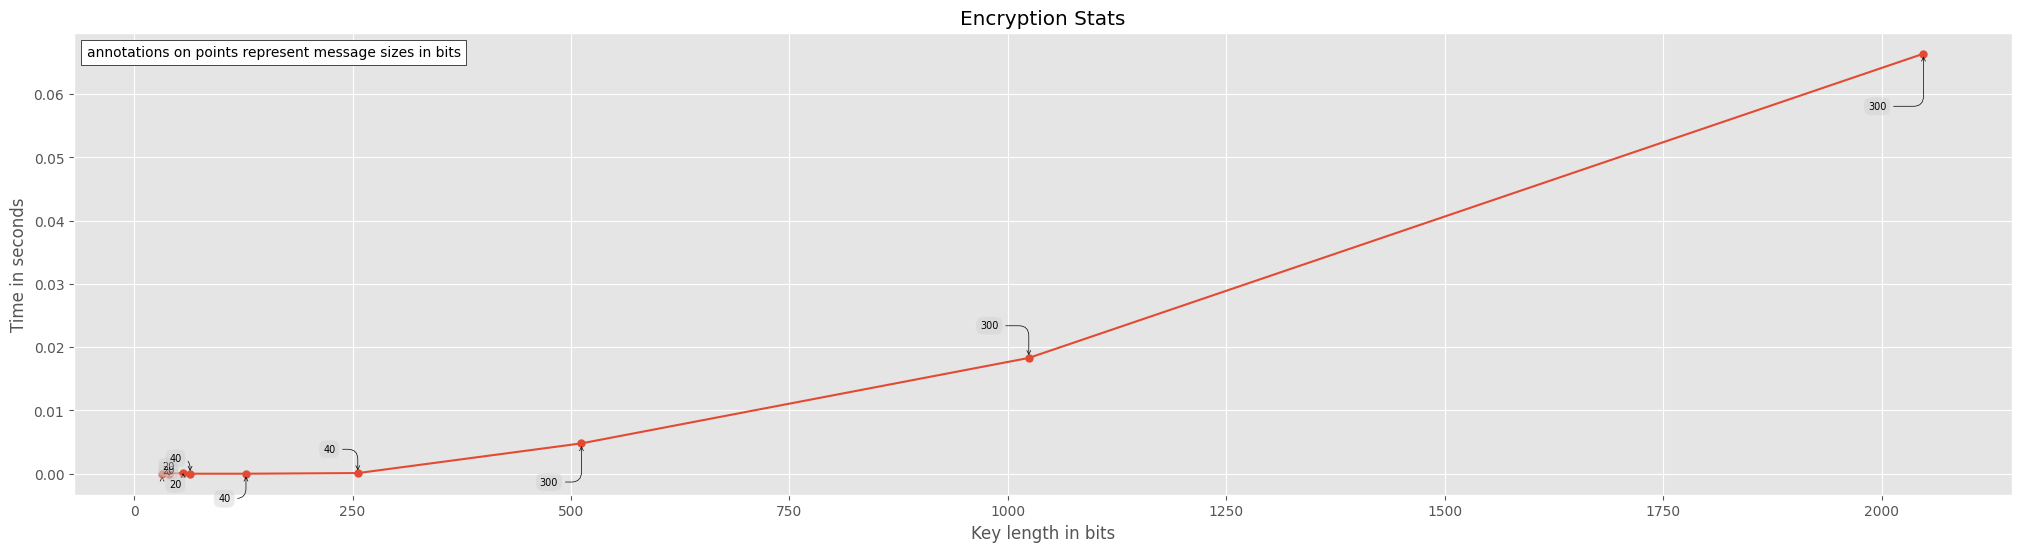
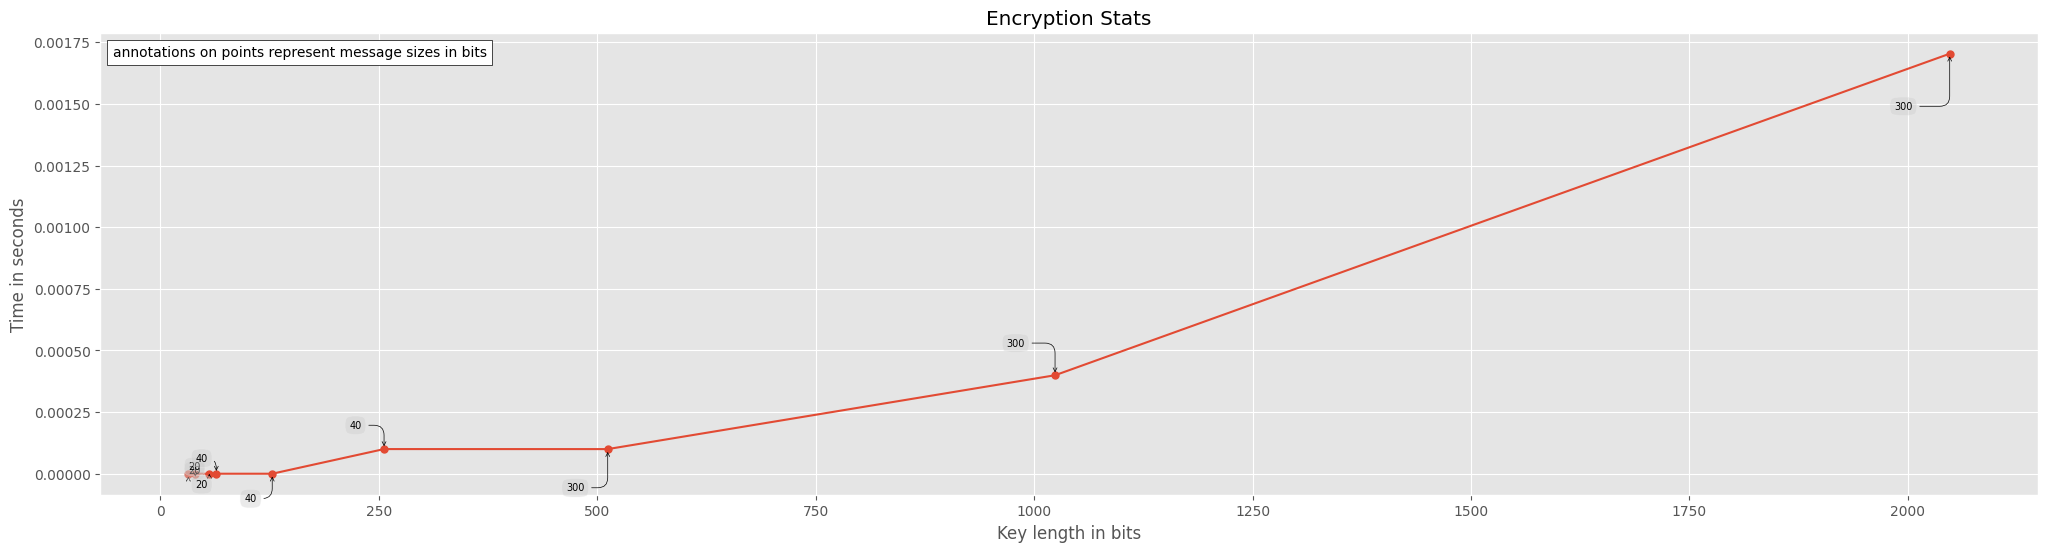
RSA Algo & Stats - Optimize encryption and decryption time

diff --git a/src/interactive_demo.py b/src/interactive_demo.py
@@ -1,28 +1,30 @@
+from email import message
 import sys, getopt
 import socket
 from algorithm.rsa import RSA
 from algorithm.utils import UserInterfaceUtils
 
 IS_INTERACTIVE = True
+IS_COMMUNICATION_MODE = True
 HOST = "127.0.0.1"
 PORT = 8000
-BUFFER_SIZE = 5000
+BUFFER_SIZE = 50000
 
 def print_help_message():
     print("use one of the following options:\n\t-h (for help)\n\t-t sender (to send)\n\t-t receiver (to receive)")
     sys.exit(2)
 
-def send_encrypted_messages(connection, rsa):
+
+def send_encrypted_messages(connection: socket, rsa:RSA):
     while True:
         message = UserInterfaceUtils.get_message_from_user()
-        connection.send(str(len(message)).encode("utf8"))
-        for character in range(0, len(message)):
-            encrypted_chars = RSA.encrypt_character(message[character], rsa.params.e, rsa.params.n)
-            connection.send((str(encrypted_chars) + "\n").encode("utf8"))
         if message == "":
             connection.send(str(0).encode("utf8"))
             UserInterfaceUtils.display_termination_message("Sender")
             break
+        else:
+            connection.send(str(len(message)).encode("utf8"))
+        RSA.send_encrypted_message_blocks(connection, message, rsa.params.e, rsa.params.n, rsa.key_length, IS_COMMUNICATION_MODE)
 
 def decrypt_received_messages(client, n, d):
     while True:
@@ -32,11 +34,13 @@ def decrypt_received_messages(client, n, d):
             break
         message = ""
         while message_length != 0:
-            encrypted_chars = client.recv(BUFFER_SIZE).decode("utf8").split("\n")[0:-1]
-            for encrypted_char in encrypted_chars:
-                decrypted_char = RSA.decrypt_character(int(encrypted_char), d, n)
-                message += decrypted_char
-                message_length -= 1
+            block_tuples = client.recv(BUFFER_SIZE).decode("utf8").split("\n")[0:-1]
+            for block_tuple in block_tuples:
+                block = int(block_tuple.split("\t")[0])
+                block_size = int(block_tuple.split("\t")[1])
+                decrypted_block = RSA.decrypt_message_block(block, block_size, d, n)
+                message += decrypted_block
+                message_length -= (block_size/8)
         print(message)
 
 def create_server_socket():

diff --git a/src/algorithm/rsa.py b/src/algorithm/rsa.py
@@ -1,6 +1,8 @@
-from numpy import character
+from rsa import encrypt
 import yaml
 import math
+import socket
+import sys
 from dataclasses import dataclass
 from algorithm.utils import RSAUtils, UserInterfaceUtils
 
@@ -54,14 +56,34 @@ class RSA:
         self.params = Params(p, q, n, e, d)
         UserInterfaceUtils.display_generated_parameters(p,q,n,e,d)
     
-    def encrypt_character(character:str, e, n):
-        return pow(ord(chr(character)), e, n)
+    def encrypt_block(block:int, e: int, n: int):
+        return pow(block, e, n)
+
+    def send_encrypted_message_blocks(connection: socket, message: str, e, n, key_length, is_communication_mode):
+        block = 0
+        block_size = 0
+        for index in range(len(message)+1):
+            if block_size + 8 >= key_length or index >= len(message):
+                encrypted_block = RSA.encrypt_block(block, e, n)
+                if is_communication_mode: connection.send((str(encrypted_block) + "\t" + str(block_size) + "\n").encode("utf8"))
+                block = 0
+                block_size = 0
+            
+            if index < len(message):
+                character = message[index]
+                block = (block << 8) + ord(character)
+                block_size += 8
     
-    def encrypt_message(message: str, e, n):
-        encrypted_message = ""
-        for character in range(0, len(message)):
-            encrypted_message =+ RSA.encrypt_character(character, e, n)
-        return encrypted_message
-    
-    def decrypt_character(character_value:int, d, n):
-        return chr(pow(character_value, d, n))
+    def decrypt_block(block: int, d: int, n: int):
+        return pow(block, d, n)
+
+    def decrypt_message_block(block:int, block_size:int, d, n):
+        num_finished_chars = 0
+        original_block = ""
+        decrypted_characters = RSA.decrypt_block(block, d, n)
+        while num_finished_chars < block_size:
+            character = chr(decrypted_characters & 0xFF)
+            original_block = character + original_block
+            decrypted_characters = decrypted_characters >> 8
+            num_finished_chars += 8
+        return original_block

diff --git a/src/performance_stats.py b/src/performance_stats.py
@@ -10,6 +10,7 @@ IS_NOT_INTERACTIVE = False
 KEY_CONFIG = 0
 PRIME_CONGFIG=1
 MSG_CONFIG=2
+IS_STATISTICS_MODE = False
 
 def generate_random_message(length_in_bits):
     message = ""
@@ -107,7 +108,7 @@ def main():
             message = generate_random_message(configs[MSG_CONFIG])
             
             encryption_start = datetime.datetime.now()
-            RSA.encrypt_message(message, rsa.params.e, rsa.params.n)
+            RSA.send_encrypted_message_blocks(None, message, rsa.params.e, rsa.params.n, configs[KEY_CONFIG], IS_STATISTICS_MODE)
             encryption_finish = datetime.datetime.now()
             
             key_generation_time_avg[test_case_num] = (key_generation_finish - key_generation_start).total_seconds() / float(iterations_count)
